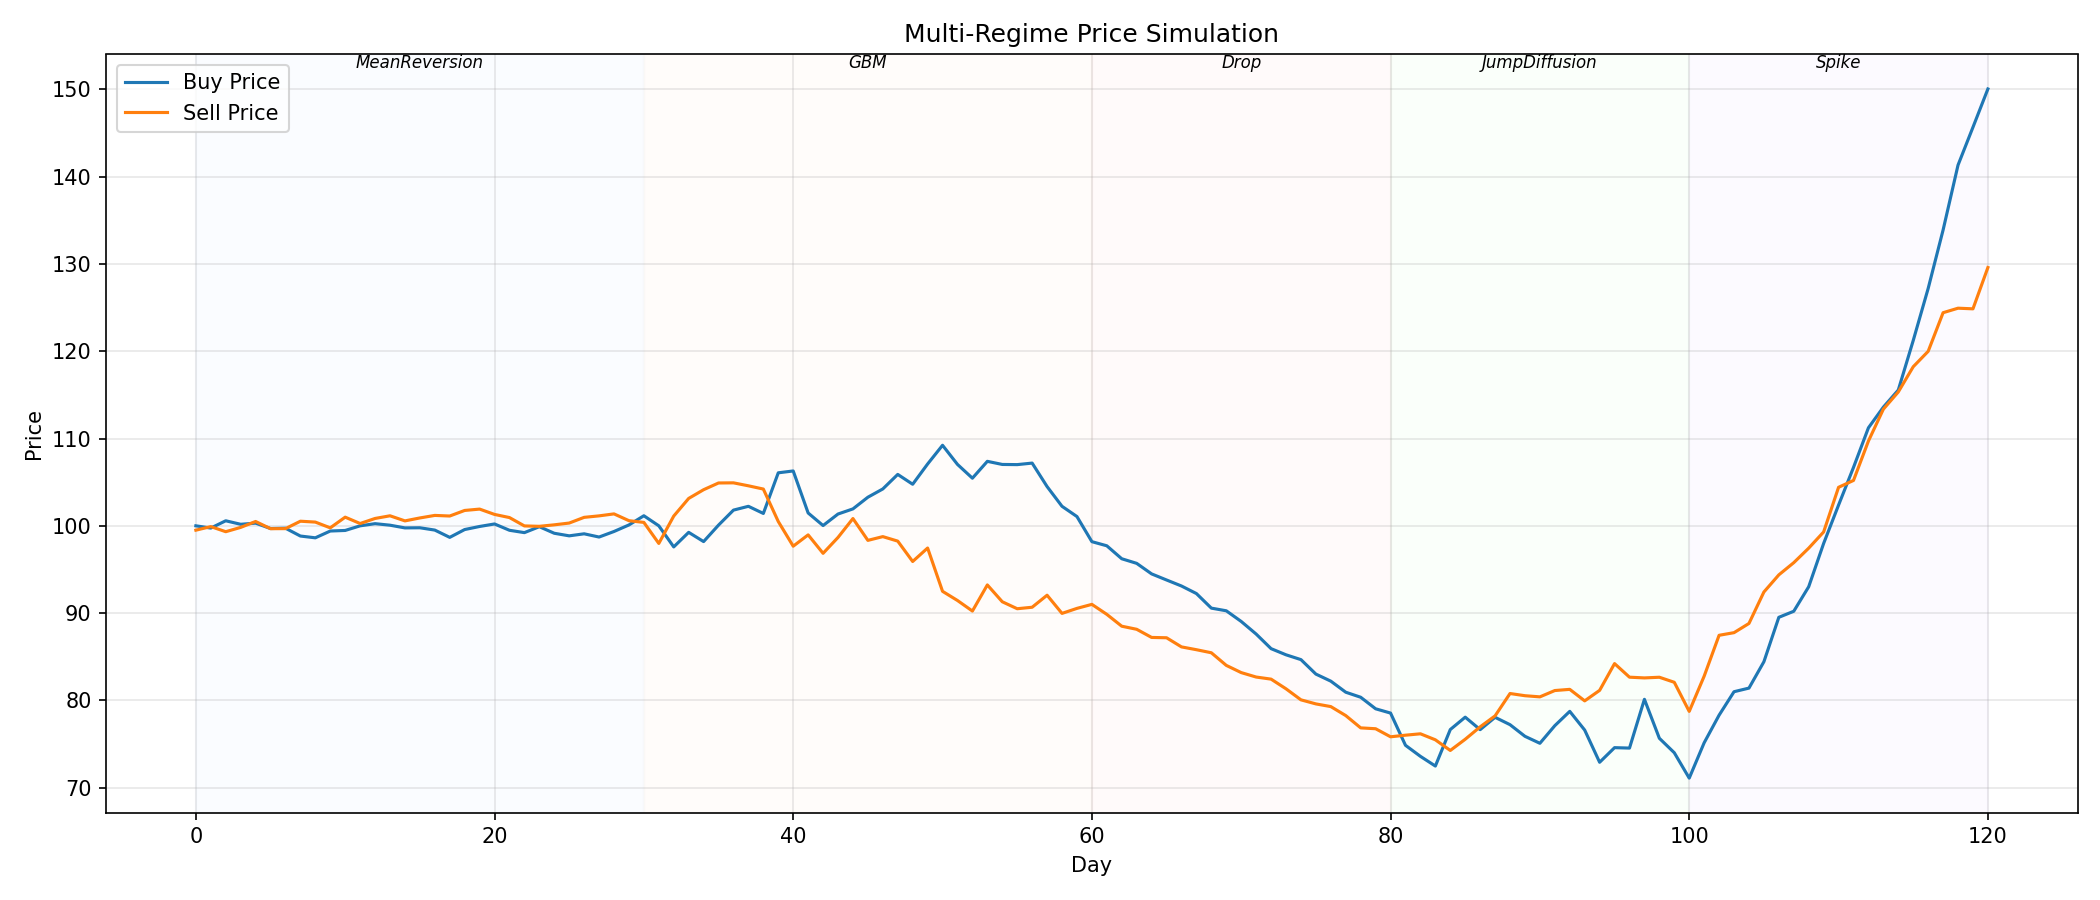
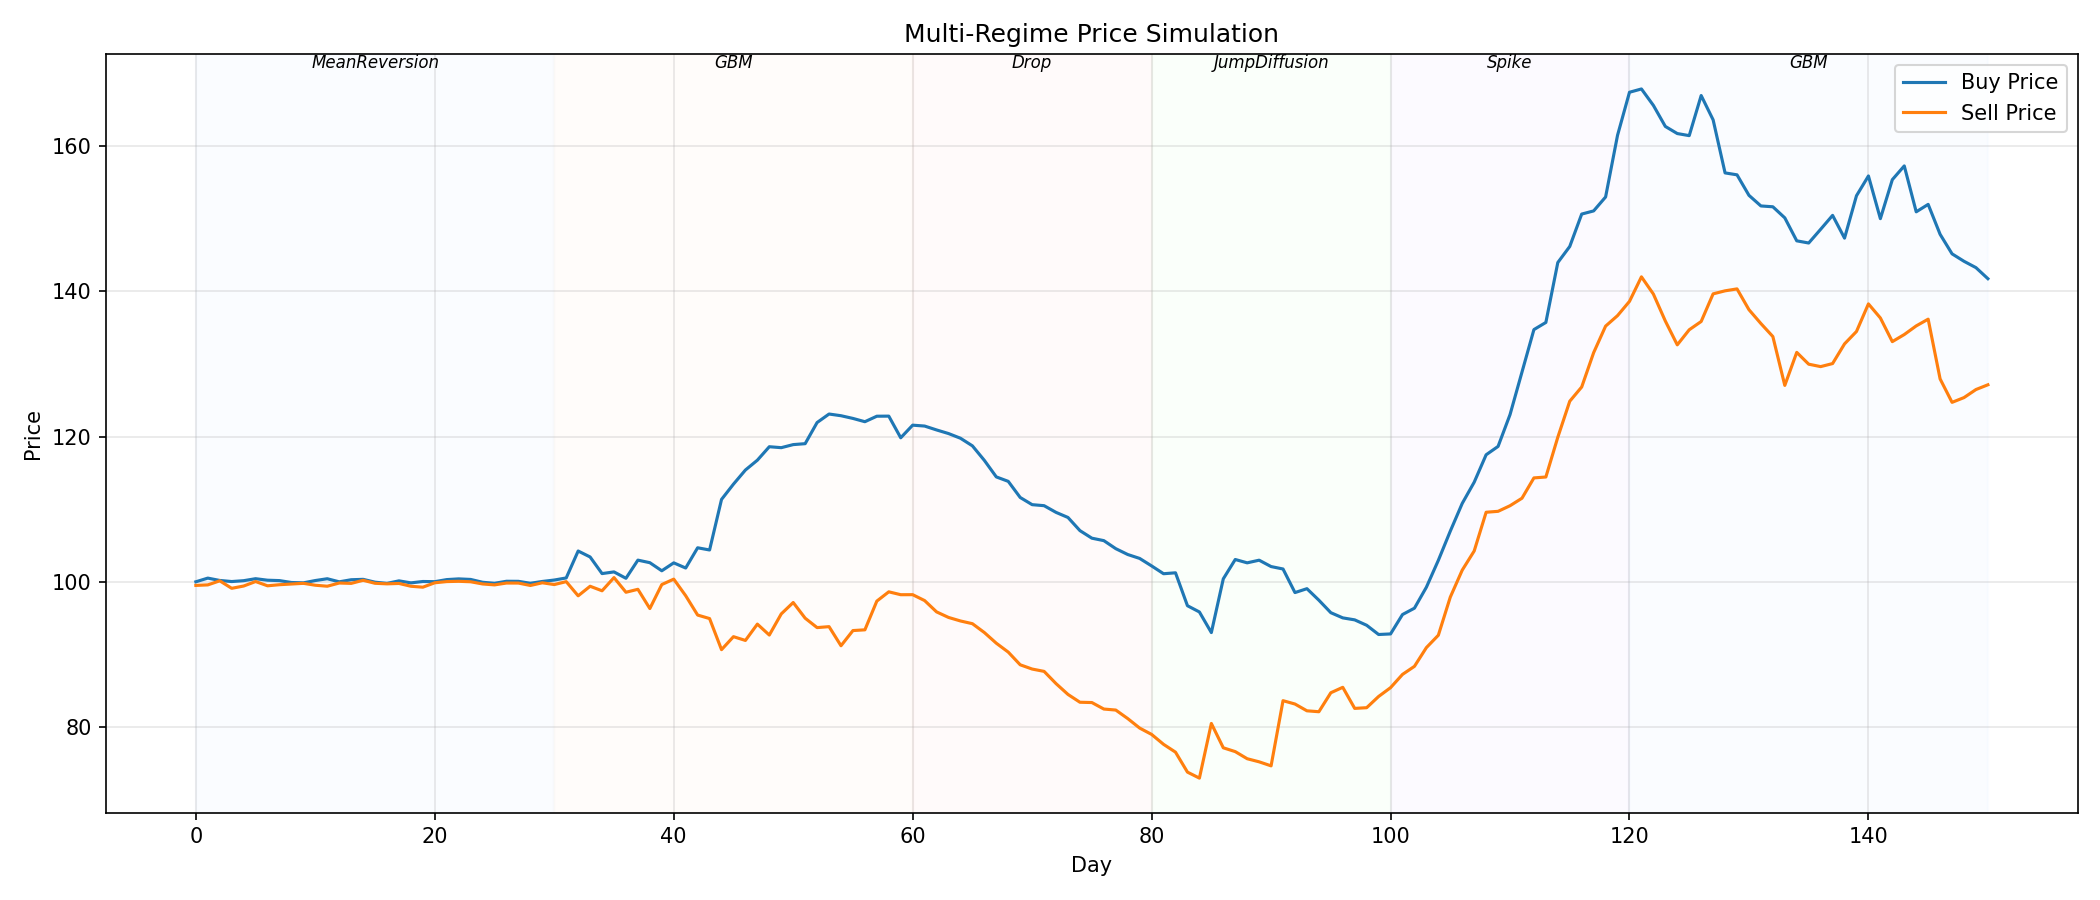
fix bug

diff --git a/scripts/plot_prices.py b/scripts/plot_prices.py
@@ -1,21 +1,19 @@
 from __future__ import annotations
 
 import matplotlib.pyplot as plt
-from mm_game import (
-    MarketData,
-    Drop,
-    GBM,
-    JumpDiffusion,
-    MeanReversion,
-    Spike,
-)
+from mm_game import Drop, GBM, JumpDiffusion, MarketData, MeanReversion, Spike
 
 regimes = [
-    ("MeanReversion", MeanReversion(mu=100.0, theta=0.1, sigma=0.5), range(0, 30)),
+    ("MeanReversion", MeanReversion(mu=100.0, theta=0.9, sigma=0.3), range(0, 30)),
     ("GBM", GBM(mu=0.0005, sigma=0.02), range(30, 60)),
     ("Drop", Drop(rate=0.01), range(60, 80)),
-    ("JumpDiffusion", JumpDiffusion(mu=0.0, sigma=0.02, jump_intensity=0.1, jump_size=0.05), range(80, 100)),
+    (
+        "JumpDiffusion",
+        JumpDiffusion(mu=0.0, sigma=0.02, jump_intensity=0.1, jump_size=0.05),
+        range(80, 100),
+    ),
     ("Spike", Spike(rate=0.03), range(100, 120)),
+    ("GBM", GBM(mu=0.0005, sigma=0.02), range(120, 150)),
 ]
 
 total_days = max(r.stop for _, _, r in regimes)
@@ -23,7 +21,7 @@ md = MarketData(
     start_buy_price=100.0,
     start_sell_price=99.5,
     regimes=[(regime, days) for _, regime, days in regimes],
-    seed=42,
+    seed=423333,
 )
 
 buy_prices = []
@@ -41,9 +39,13 @@ plt.plot(days, sell_prices, label="Sell Price", linewidth=1.5)
 # Draw regime boundaries
 colors = ["#e6f3ff", "#fff3e6", "#ffe6e6", "#e6ffe6", "#f3e6ff"]
 for i, (name, _, day_range) in enumerate(regimes):
-    plt.axvspan(day_range.start, day_range.stop, alpha=0.2, color=colors[i % len(colors)])
+    plt.axvspan(
+        day_range.start, day_range.stop, alpha=0.2, color=colors[i % len(colors)]
+    )
     mid = (day_range.start + day_range.stop) / 2
-    plt.text(mid, plt.ylim()[1], name, ha="center", va="top", fontsize=8, style="italic")
+    plt.text(
+        mid, plt.ylim()[1], name, ha="center", va="top", fontsize=8, style="italic"
+    )
 
 plt.xlabel("Day")
 plt.ylabel("Price")

diff --git a/src/MarketData.cpp b/src/MarketData.cpp
@@ -39,8 +39,14 @@ void MarketData::computePrices() {
   for (int i = 0; i < totalDays; i++) {
     if (dayRegimes[i]) {
       dayRegimes[i]->setDayIndex(i);
-      buyPrices.push_back(dayRegimes[i]->update(buyPrices.back(), rng));
-      sellPrices.push_back(dayRegimes[i]->update(sellPrices.back(), rng));
+      float newBuy = dayRegimes[i]->update(buyPrices.back(), rng);
+      float newSell = dayRegimes[i]->update(sellPrices.back(), rng);
+      // Enforce ask >= bid (buy price >= sell price)
+      if (newSell > newBuy) {
+        std::swap(newBuy, newSell);
+      }
+      buyPrices.push_back(newBuy);
+      sellPrices.push_back(newSell);
     } else {
       buyPrices.push_back(buyPrices.back());
       sellPrices.push_back(sellPrices.back());
